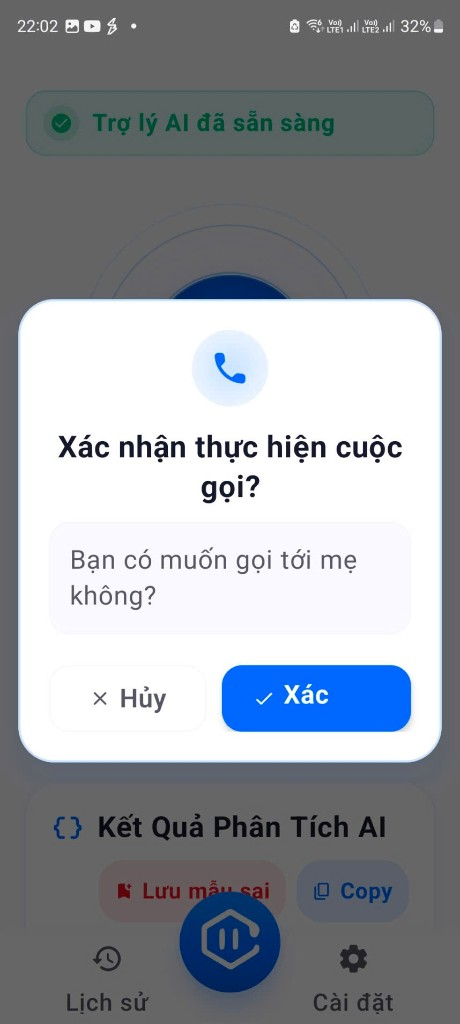
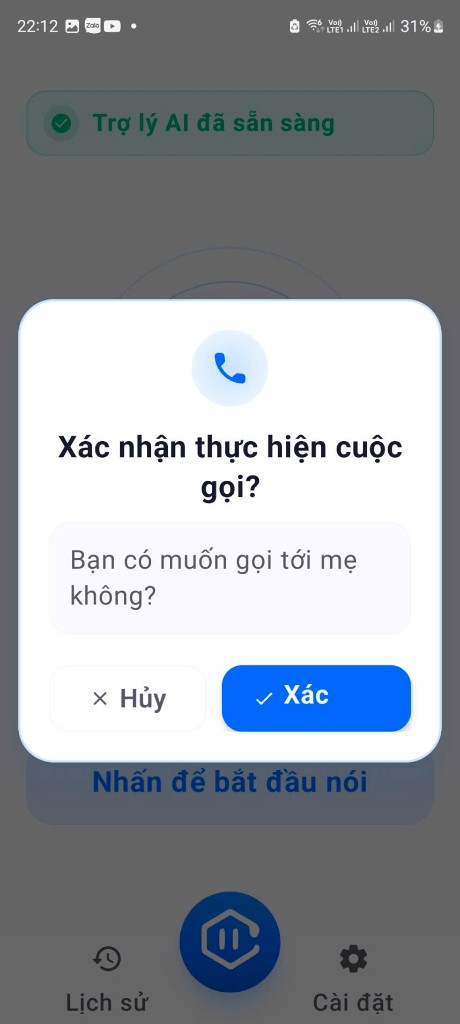
docs: replace command and call-confirm README screenshots

diff --git a/README.md b/README.md
@@ -42,7 +42,7 @@ Phiên bản nguồn: [GitHub Release v1.0.1](https://github.com/tuanhdevvn/ViDr
 
 <p align="center">
   <img src="docs/screenshots/01-home-mic.png" width="240" alt="Màn trợ lý — AI sẵn sàng, chạm micro để ra lệnh"/>
-  <img src="docs/screenshots/04-command-result.png" width="240" alt="Câu lệnh đã nhận và thẻ kết quả phân tích AI"/>
+  <img src="docs/screenshots/04-command-result.png" width="240" alt="Màn trợ lý — câu lệnh Gọi điện cho mẹ"/>
   <img src="docs/screenshots/05-call-confirm.png" width="240" alt="Hộp thoại xác nhận cuộc gọi"/>
 </p>
 <p align="center">
